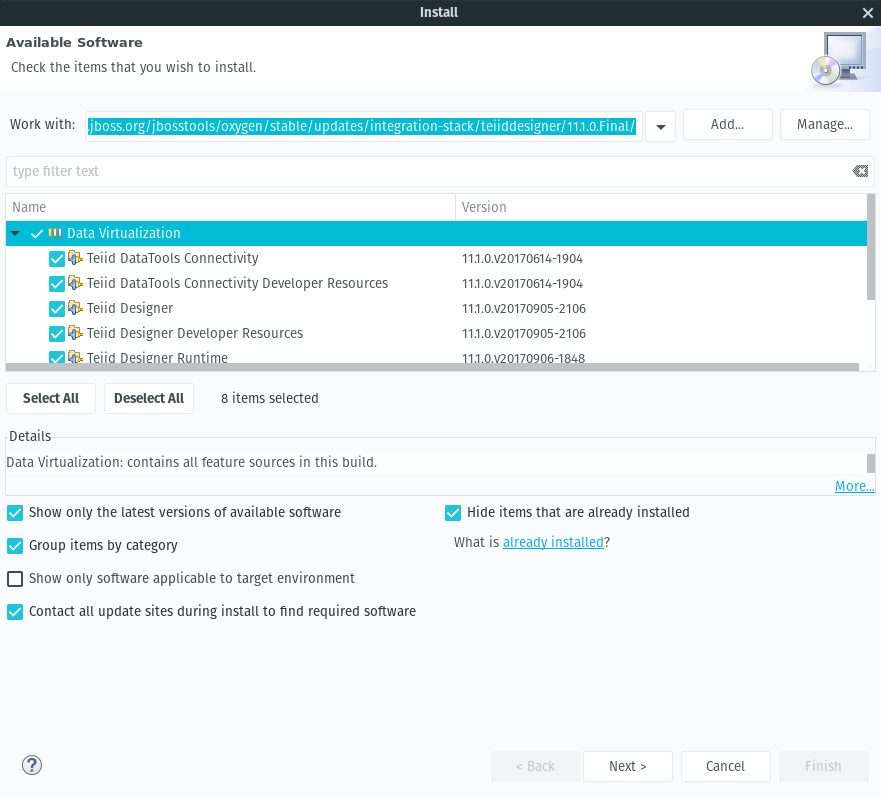
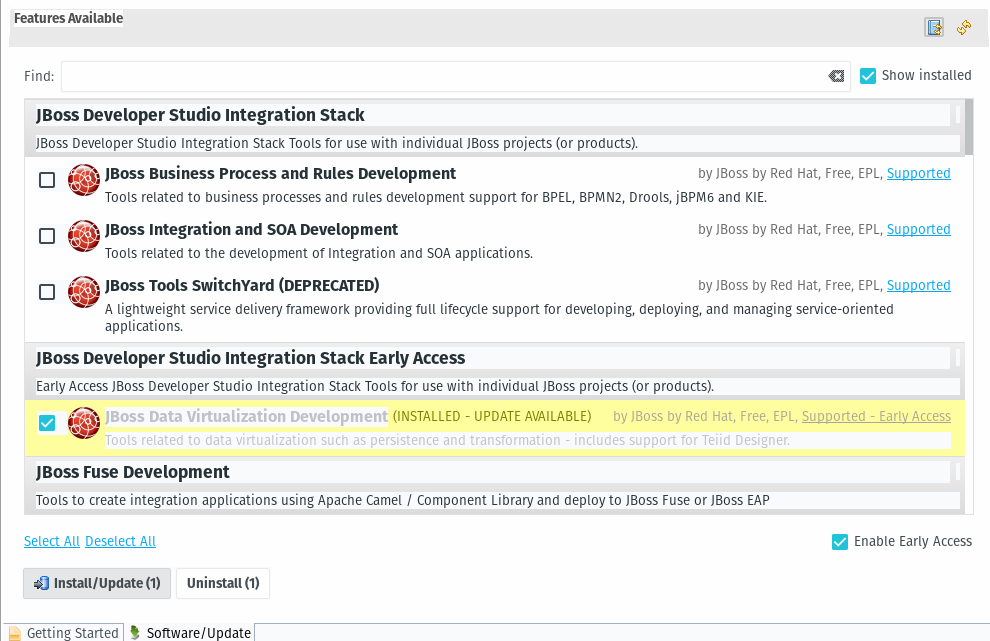
update teiid designer installation instructions to use Red Hat Central instead of manual update site

diff --git a/content/workshops/jdv_dev/exercise1.md b/content/workshops/jdv_dev/exercise1.md
@@ -132,22 +132,19 @@ at the very beginning of the file
 ## Install teiid Designer <a name="link7"></a>
 
 
-To add the latest teiid designer software to JBDS 11.0 you need to add the software site in JBDS
+* In the **Red Hat Central** window in the center, click the **Software/Update** tab at the bottom
 
-* **help <i class="fa fa-arrow-right"></i> install new software**
+* Check the box next to **JBoss Data Virtualization Development**
 
-* click the **add** button and put this in the url
+* Click the **Install/Update** button to install the teiid designer
 
-`http://download.jboss.org/jbosstools/oxygen/stable/updates/integration-stack/teiiddesigner`
+{{% alert %}}
+If you do not see **JBoss Data Virtualization Development** listed, check the **Enable Early Access** checkbox in the lower right.  Sometimes the teiid designer release does not sync with the JBDS release.
 
-* Select **Data Virtualization** and go through the prompts
+{{% /alert %}}
 
 <img src="../images/1-teiid-designer.png" width="640px">
 
-{{% alert %}}
-This step is usually unnecessary.  The Data Virtualization tools shipped as an installable out of the box but the latest tool release did not sync with the JBDS 11 release
-
-{{% /alert %}}
 
 * After installation, restart JBDS.  On reboot you will be asked for a **secure storage password**, you can choose something simple like `redhat`
 
